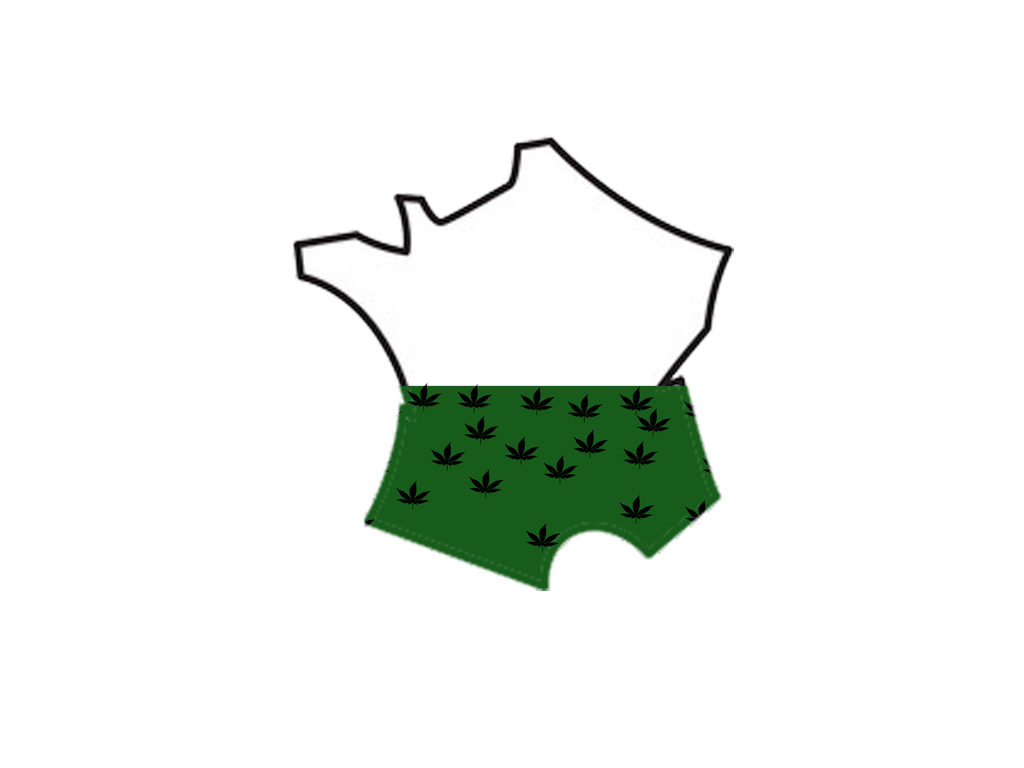
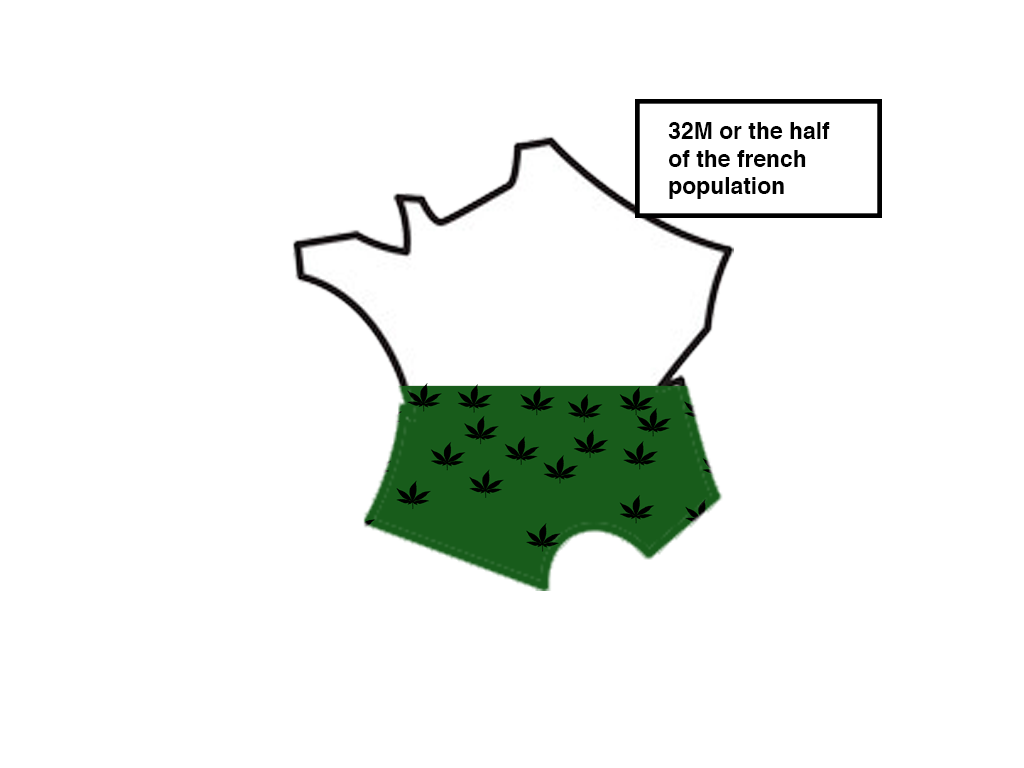
commit beta

Changed region(s): [[0.5938, 0.125, 0.875, 0.2812]]

diff --git a/index.html b/index.html
@@ -195,8 +195,8 @@
             #section0 h1 
             {
             	position: relative;
-            	left:217px;
-            	top:270px;
+            	top:45%;
+            	left:33%;
             }
             #section0 .left{
                 position: absolute;
@@ -339,8 +339,8 @@
             }
             #section4 .image {
                 position: absolute;
-                width: 100%;
-                top:30%;
+                max-width: 100%;
+                top:25%;
                 right:15%;                
                 z-index: 1;
             }
@@ -375,8 +375,8 @@
 
             #section5 .graph {
                 position: relative;
-                left: 15%;
-                width: 70%;
+                left: 20%;
+                width: 60%;
                 margin-bottom: -2%;
                 bottom:15px;
              }
@@ -588,9 +588,8 @@
             <h1 style='text-align: center'>
             	Disclaimer
             </h1>
-            <h3> A century long story comes from drugs consumption. It could be considered as a history tag, a counter-culture symbol, even a war weapon and sometimes as a therapeutic treatment. If its bad boy reputation is well known, the society consumes, restrains and perceives its consumption in a complex way.
-Between health risks and money potentially earned by a regulated market, the states nowadays have to think about its legalization.
-As Canada did recently, does France have to rethink the legal status of marijuana?
+            <h3> A century long story comes from drugs consumption. It is sometimes considered as a history tag, a counter-culture symbol, even a war weapon and sometimes as a therapeutic treatment. If its bad boy reputation is well-known, the society consumes, restrains and perceives its consumption in a complex way. Between health risks and money potentially earned by a regulated market, states nowadays have to think about its legalization. As Canada did recently, does France have to rethink the legal status of marijuana?
+
 			 </h3>   
 			 <img id="politician" src="images/disclaimer_image.png" style='width:400px;text-align: center;'>
             </div>
@@ -598,18 +597,17 @@ As Canada did recently, does France have to rethink the legal status of marijuan
 
         <div class="section" id="section2">
            <div class="viztitle"> Cannabis legal status around the world </div>
-           <h4> Nowadays, the recreational use remains marginal in the whole world. Plus if we can see some authorization in few countries or particular cases according regions, regulations are very strict. 
-			Legal : consumption is supervised by States. Legalization could be total or partial : we will see different rules on recreational rules, culture and selling
-Illegal : not allowed by governement with a criminal sanction if any breach.
-NC : no information known </h4>
+           <h4> Nowadays, the recreational use of marijuana remains marginal in the whole world. Moreover, if there are some kinds of authorizations in a few countries or particular cases according to the regions, regulations are very strict. Legal means here that consumption is supervised by States. Legalization could be total or partial : we will see different rules on recreational rules, culture and selling. Illegal means that it is not allowed by governement, and there is a criminal sanction if any breach occurs. Decriminalized means that smoking is tolerated but not the dealers.
+ </h4>
 
-           <div class='tableauPlaceholder' id='viz1543932534395' style='position: relative; bot:50%; left:22%;'><noscript><a href='#'><img alt=' ' src='https:&#47;&#47;public.tableau.com&#47;static&#47;images&#47;Le&#47;LegalstatusofcannabisintheWorldv3&#47;Histoire1&#47;1_rss.png' style='border: none' /></a></noscript><object class='tableauViz'  style='display:none;'><param name='host_url' value='https%3A%2F%2Fpublic.tableau.com%2F' /> <param name='embed_code_version' value='3' /> <param name='site_root' value='' /><param name='name' value='LegalstatusofcannabisintheWorldv3&#47;Histoire1' /><param name='tabs' value='no' /><param name='toolbar' value='yes' /><param name='static_image' value='https:&#47;&#47;public.tableau.com&#47;static&#47;images&#47;Le&#47;LegalstatusofcannabisintheWorldv3&#47;Histoire1&#47;1.png' /> <param name='animate_transition' value='yes' /><param name='display_static_image' value='yes' /><param name='display_spinner' value='yes' /><param name='display_overlay' value='yes' /><param name='display_count' value='yes' /><param name='filter' value='publish=yes' /></object></div>                <script type='text/javascript'>                    var divElement = document.getElementById('viz1543932534395');                    var vizElement = divElement.getElementsByTagName('object')[0];                    vizElement.style.width='700px';vizElement.style.height='547px';                    var scriptElement = document.createElement('script');                    scriptElement.src = 'https://public.tableau.com/javascripts/api/viz_v1.js';                    vizElement.parentNode.insertBefore(scriptElement, vizElement);                </script>
+           <div class='tableauPlaceholder' id='viz1543932534395' style='position: absolute; left:22%;bottom:5%;'><noscript><a href='#'><img alt=' ' src='https:&#47;&#47;public.tableau.com&#47;static&#47;images&#47;Le&#47;LegalstatusofcannabisintheWorldv3&#47;Histoire1&#47;1_rss.png' style='border: none' /></a></noscript><object class='tableauViz'  style='display:none;'><param name='host_url' value='https%3A%2F%2Fpublic.tableau.com%2F' /> <param name='embed_code_version' value='3' /> <param name='site_root' value='' /><param name='name' value='LegalstatusofcannabisintheWorldv3&#47;Histoire1' /><param name='tabs' value='no' /><param name='toolbar' value='yes' /><param name='static_image' value='https:&#47;&#47;public.tableau.com&#47;static&#47;images&#47;Le&#47;LegalstatusofcannabisintheWorldv3&#47;Histoire1&#47;1.png' /> <param name='animate_transition' value='yes' /><param name='display_static_image' value='yes' /><param name='display_spinner' value='yes' /><param name='display_overlay' value='yes' /><param name='display_count' value='yes' /><param name='filter' value='publish=yes' /></object></div>                <script type='text/javascript'>                    var divElement = document.getElementById('viz1543932534395');                    var vizElement = divElement.getElementsByTagName('object')[0];                    vizElement.style.width='700px';vizElement.style.height='547px';                    var scriptElement = document.createElement('script');                    scriptElement.src = 'https://public.tableau.com/javascripts/api/viz_v1.js';                    vizElement.parentNode.insertBefore(scriptElement, vizElement);                </script>
         </div>
 
         <div class="section" id="section3">
-            <div class="viztitle"> Inspired by american way of life </div>
+            <div class="viztitle"> A look at the USA </div>
+            <div class="vizsubtitle"> Inspired by American way of life </div>
 
-			<h4>    We’ll start our data journey in the United States, first power of in the world. According to the latest surveys, <font> 10 % of the US citizens </font> consider themselves as <font> active marijuana consumers </font>. As a meaningful comparison, 10% of the US population (30M) represents the entire Canadian population, which recently passed a new law to legalize the recreative use of marijuana.
+			<h4>    We’ll start our data journey in the United States, first power of in the world. According to the latest surveys, <font> 10 % of the US citizens </font> consider themselves as <font> active marijuana consumers </font>. As a meaningful comparison, 10% of the US population (30M) counts for almost half of the french population.
 			</h4>
 
     		<img src="images/number_smoker_usa.png" class="image1">  
@@ -621,15 +619,16 @@ NC : no information known </h4>
             <div class="left_grey"></div>
             <div class="left">
                 <h1> Who are the smokers ? </h1>
-                <h4> In terms of sociology of marijuana consumption, we first wanted to determine the standard profil of a user. We tried to identify tendencies based on your gender, ethnic origins or even work status. However, our data driven analysis didn’t lead us to a clear identification. 
-				<br> We notice that men consume slightly more than women but the difference is not strong enough to make it a generalization. Finally, the cultural analysis only proves that the marijuana use is a global concern and is not impacted by your ethnic origins.
+                <h4> In terms of sociology of marijuana consumption, we first wanted to determine the standard profil of a user. We tried to identify tendencies based on the gender, ethnic origins or even work status. However, our data driven analysis didn’t lead us to a clear identification. 
+				<br> Indeed, we notice that men consume slightly more than women but the difference is not significant enough to jump into any conclusion. Finally, the cultural analysis only proves that the marijuana use is a global concern and is not impacted by any ethnic origin.
+
  				</h4>
                 <img src="images/V2/Slide%208/8_missing.png" class="leftimage">
             </div>
             <div class="right">
                 
                 <div id="titre92" class="titre7">
-                    <h2>Smoking is not gender matter...</h2>
+                    <h2>Smoking is not a gender matter...</h2>
                 </div>
                 <div id="titre93" class="titre7">
                     <h2>neither an ethnic phenomenon...</h2>
@@ -641,7 +640,7 @@ NC : no information known </h4>
                 <img src="images/ethnic_smoke.png" id="mig1" alt="mig1" class="image">
                 <img src="images/hist_age.png" id="mig2" alt="mig2" class="image" >
                 
-				<input style='position:absolute;top:90%;left:15%;width: 20em'type="button" value="Next" onclick="swap();"/>
+				<input style='position:absolute;top:90%;left:15%;width: 20em;border-color: #000000;    border-radius: 6px;border-width: 3px'type="button" value="Next" onclick="swap();"/>
                 <div id="progress7" class="progressBar"></div>
             </div>
             <script>
@@ -685,6 +684,8 @@ NC : no information known </h4>
 
         <div class="section" id="section5">
            <div class='viztitle'> Economical impact </div>
+           <div class="vizsubtitle">  - Colorado, a model - </div>
+
            <h4>    If marijuana is considered as harmful and responsible for illegal traffic in many countries, its regulation has proven to bring wealth and employment in states that have legalized it.
 			Our example comes here from Denver, Colorado, where <font> 18,000 jobs have been created </font> statewide <font> in 2015 </font> thanks to the marijuana legalization (directly and indirectly created as well as induced).
 			Compared to other “legal drugs” such as cigarettes and alcohol, Marijuana is still a bit behind in 2015, but is expected to be the first expense among the three in 2020 ($150 millions)
@@ -817,8 +818,8 @@ NC : no information known </h4>
         <div class="section" id="section6">
           		<div class="viztitle"> Is France missing an opportunity ? </div>
           		<h4> In the light of concrete cases, taking into account the french population’s opinion on marijuana and putting in perspective with other addictive substances that are legal, it is today fair to wonder if there is still a good reason to keep marijuana illegal in France. In France, cannabis consumption accounts for <font> 80% of all drug use </font> and involves <font> 3.9 million users </font>, including <font> 1.2 million regular users </font>. At the age of 16, the French are the <font>first cannabis users in Europe </font>  </h4>
-
-          		<img src="images/fra_can.png" class="image" style="width:40%; position: relative; left:30%;">
+          		<img src="images/podium.png" class="image" style=" width:25%;position: relative; left:15%;bottom:10%;">
+          		<img src="images/fra_can.png" class="image" style="width:40%; position: relative; left:25%;">
         </div>
 
         
@@ -845,7 +846,7 @@ NC : no information known </h4>
 
             var data = [trace1];
             var layout = {
-              title: 'Evolution of the number of crime related to cannabis trafficking in France',
+              title: 'Evolution of the number of crimes related to cannabis trafficking in France',
               xaxis: {
                 title: 'Year'
               },
@@ -885,20 +886,20 @@ NC : no information known </h4>
     <div class="section" id="section8">
 			<div class='viztitle'> Zoom on France </div>
             <div class="vizsubtitle">  - Public Health - </div>
-            <h4> <font> Cannabis </font> is the <font> 8th most dangerous drug </font>. This ranking take into account 16 parameters including: direct effects on user, overdose risk, physical and psychological dependancy, alteration of mental capacities but also the economic cost for a country and the international smuggling consequences. This outputs two scores: one for the harm the drug can inflict to the user but also to others <h4>
-            <div id="danger_drug" style="position: relative; width: 600px; height: 300px; display: inline-block; vertical-align: middle; left:25%;">
+            <h4> <font> Cannabis </font> is the <font> 8th most dangerous drug </font> according to a <a href="https://www.thelancet.com/journals/lancet/article/PIIS0140-6736(10)61462-6/fulltext"> <b> study </b></a>  made by the UK think tank "Lancet" in the UK. This ranking take into account 16 parameters including: direct effects on user, overdose risk, physical and psychological dependancy, alteration of mental capacities but also the economic cost for a country and the international smuggling consequences. This outputs two scores: one for the harm the drug can inflict to the user (physical, psychological, and social harms) but also to others. <h4>
+            <div id="danger_drug" style="position: relative; width: 600px; height: 300px; display: inline-block; vertical-align: middle; left:22.5%;">
             	<script >
 					 var trace1 = {
-					  x: ['Alcohol', 'Heroin', 'Crack ','Metamphetamine','Cocaine','Tobacco','Amphetamine','Cannabis'],
-					  y: [46, 22, 18,2,7,9,4,9],
+					  x: ['Alcohol', 'Heroin', 'Crack ','Metamphetamine','Cocaine','Tobacco','Amphetamine','Cannabis','GHB','Benzodiazepenes'],
+					  y: [26, 33, 36,31,20,17,22,11,17,12],
 					  name: 'Harm to Users',
 					  marker: {color:'#850606'},
 					  type: 'bar'
 					};
 
 					var trace2 = {
-					  x: ['Alcohol', 'Heroin', 'Crack ','Metamphetamine','Cocaine','Tobacco','Amphetamine','Cannabis'],
-					  y: [26, 33, 36,31,20,17,22,11],
+					  x: ['Alcohol', 'Heroin', 'Crack ','Metamphetamine','Cocaine','Tobacco','Amphetamine','Cannabis','GHB','Benzodiazepenes'],
+					  y: [46, 22, 18,2,7,9,4,9,2,4],
 					  name: 'Harm to others',
 					  marker: {color:'#DC143C'},
 					  type: 'bar'
@@ -927,7 +928,7 @@ NC : no information known </h4>
 			<img src="cultivation.png", style='width: 150px; position:relative;left:25%'>	
 			<h4 style='position: absolute;left:2%;top:43%;'> Recreational Use </h4> <h4 style='position: absolute;left:39%;top:43%'> Medicinal Use  </h4> <h4 style='position: absolute;left:77.5%;top:43%'> Cultivation </h4> 
 
-			<h4 style='position: absolute;left:70px;top:330px;'> <font>51% </font> </h4> <h4 style='position: absolute;left:535px;top:330px'> <font>61% </font></h4> <h4 style='position: absolute;left:1010px;top:330px'> <font> 46% </font></h4> 
+			<h4 style='position: absolute;left:5%;top:47.5%;'> <font>51% </font> </h4> <h4 style='position: absolute;left:42%;top:47.5%'> <font>61% </font></h4> <h4 style='position: absolute;left:79.5%;top:47.5%'> <font> 46% </font></h4> 
 			</style>
 
    </div>
@@ -956,6 +957,7 @@ NC : no information known </h4>
                     Yassine Rachidi, Joséphine de Leusse, Marion Duhirel, Antoine Denis
                     <br>
                     November 2018
+
                 </h3>
             </div>
 
